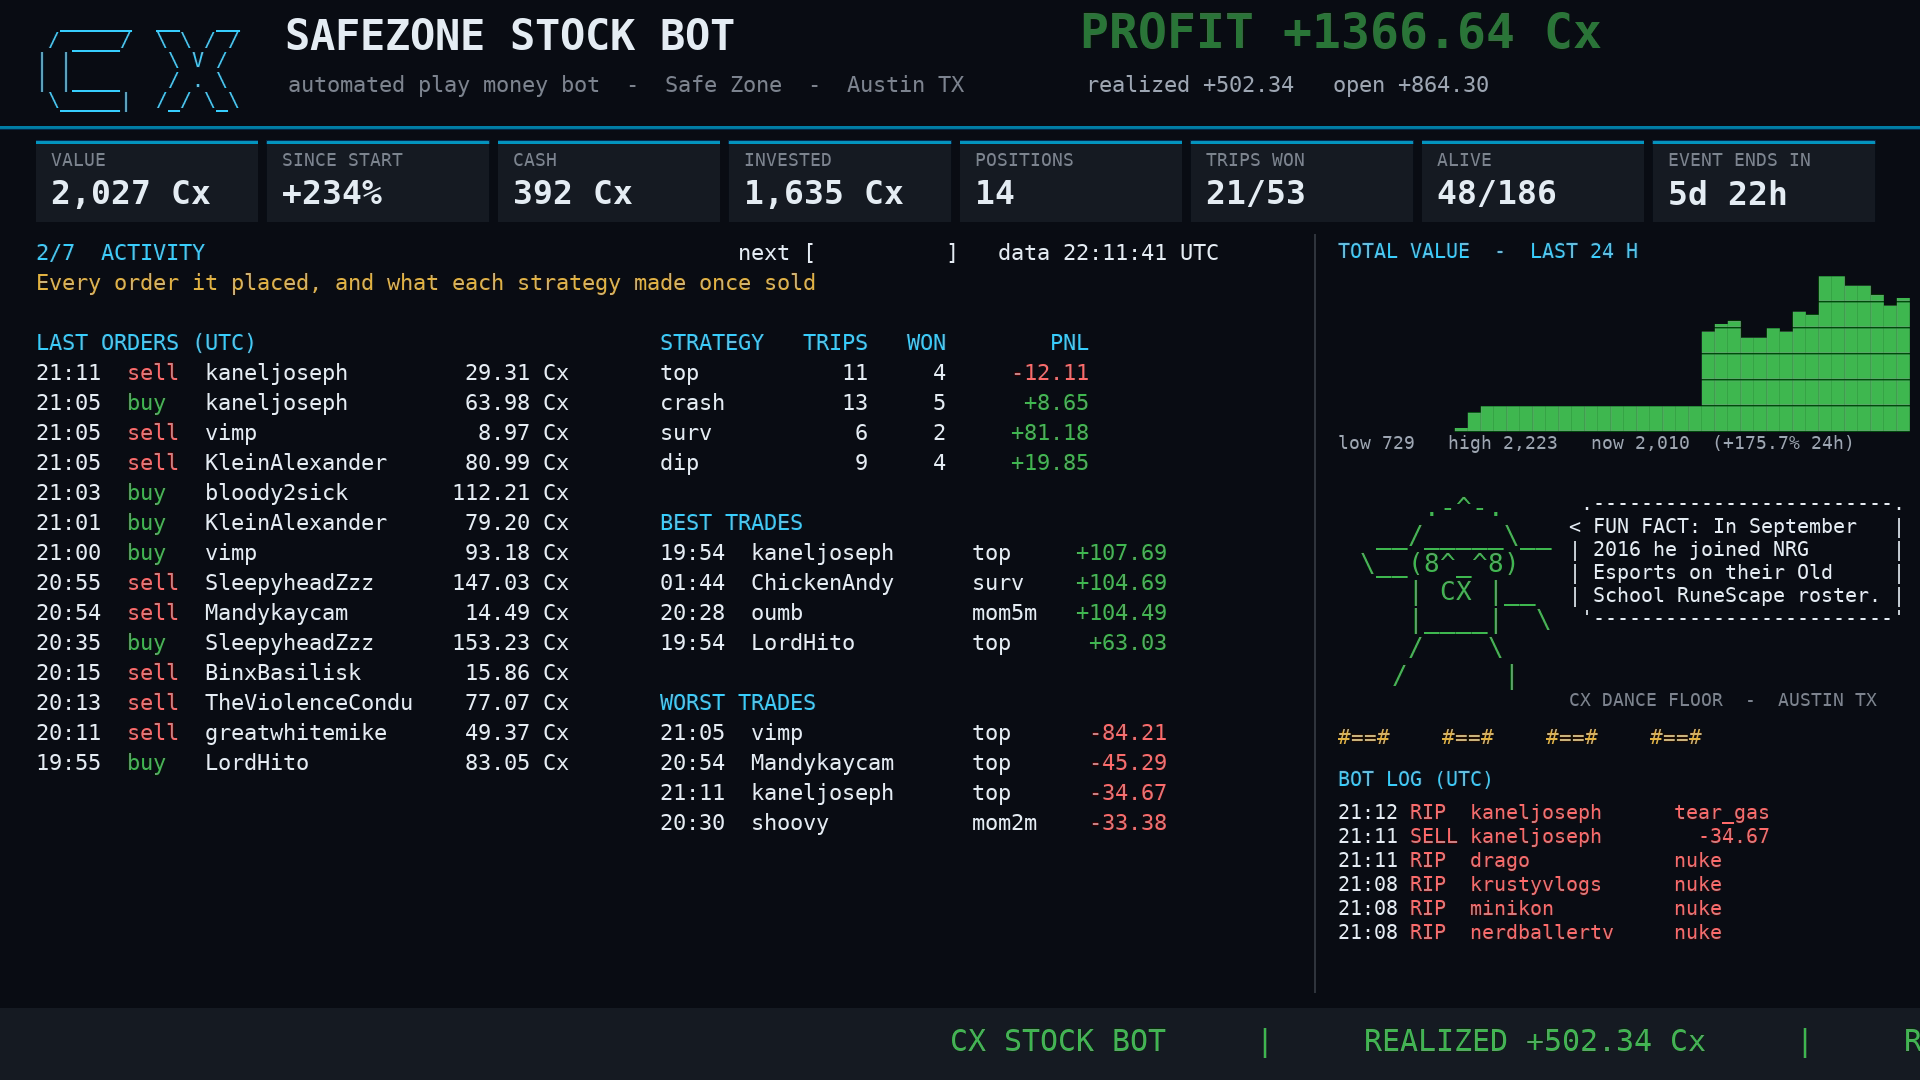
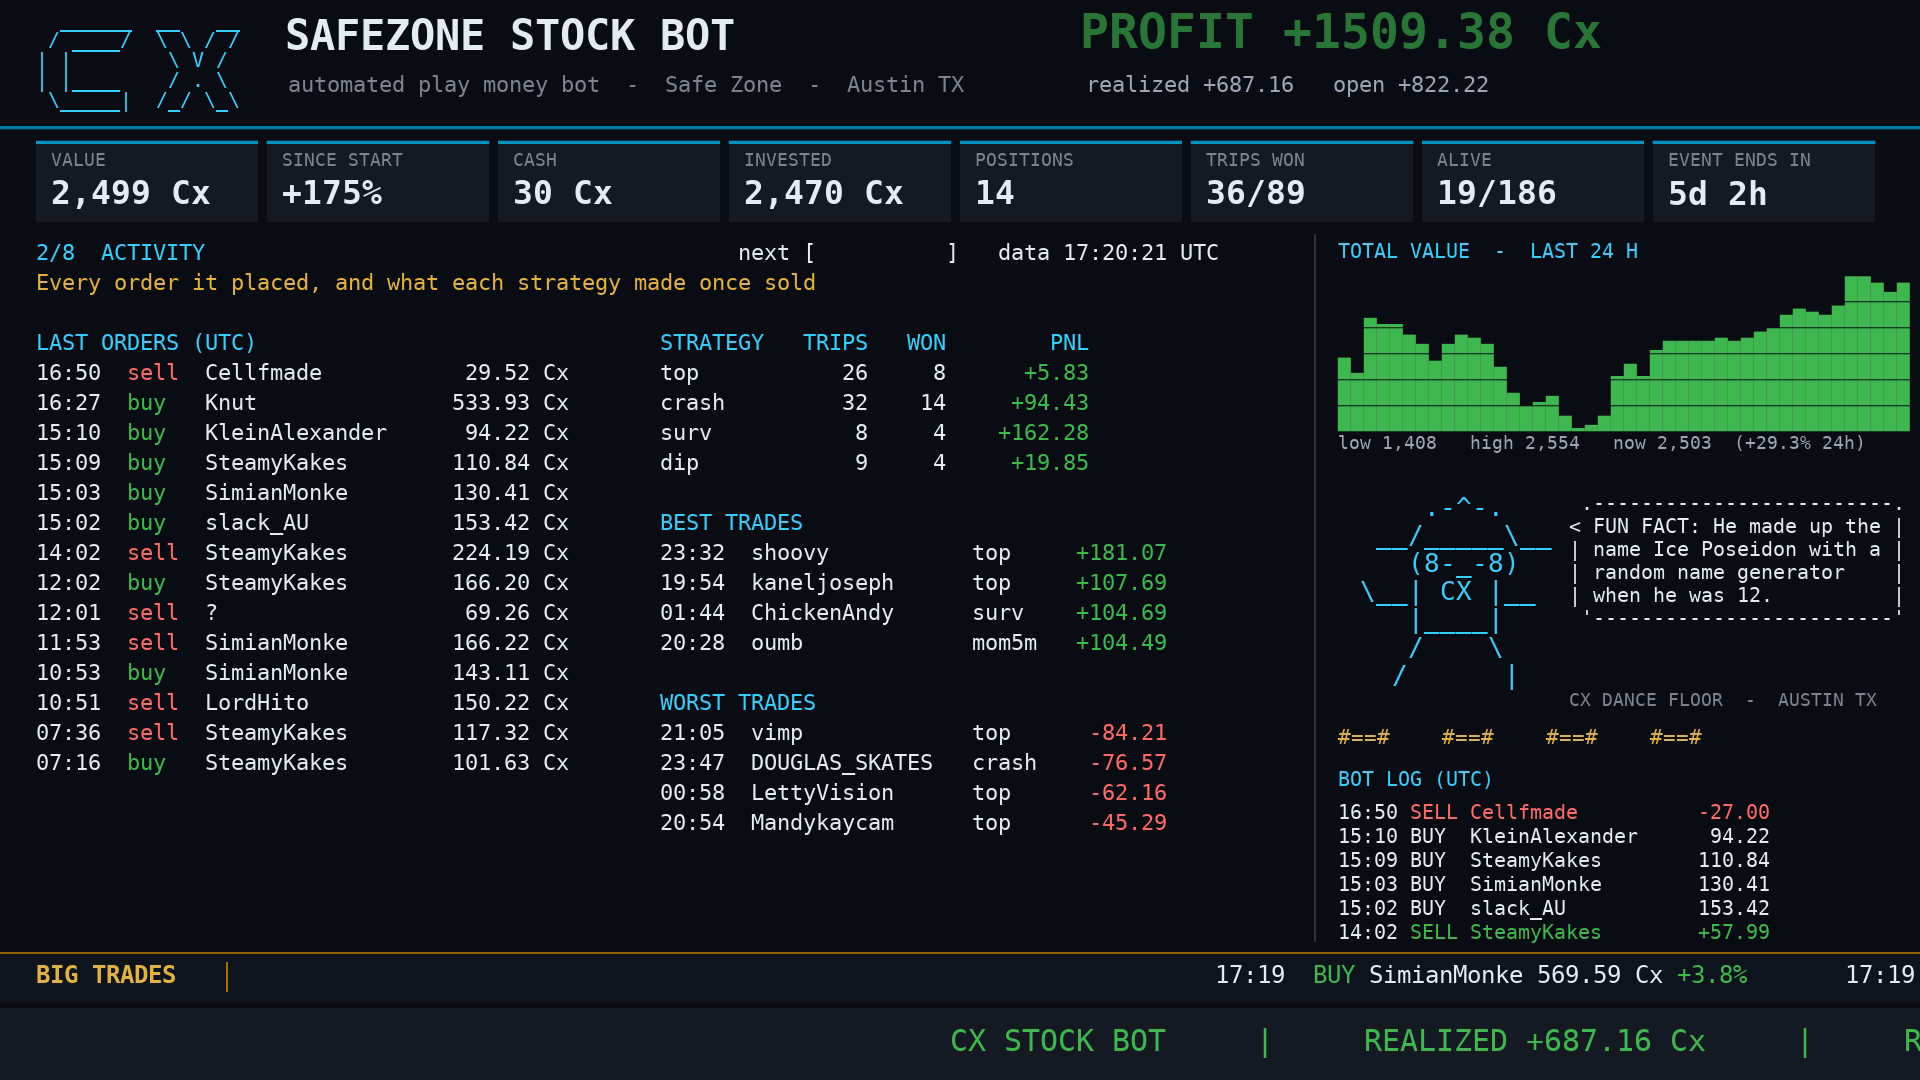
Stream: two pages on the other players' trades and a scrolling big trades band; adopt shares bought by hand
OTHER PLAYERS: MONEY FLOW (10 and 60 min totals, the hour's 15 most traded stocks) and LAST 20 TRADES
(newest first, then the 4 biggest of the hour). The BIG TRADES band shows trades of 100 Cx or more on every
page. Shares bought by hand on the site now join the top basket (adopt event) instead of a separate trail.

diff --git a/README.md b/README.md
@@ -32,8 +32,8 @@ Positions every 2 s (exits at death or low HP within about 2 s of the map showin
   when the stock stops trading. Never bought under 40% HP, outside the zone or dead. A death counts until the
   roster shows the contestant alive again (at least 30 s after it): then it is buyable, and a new death counts again.
   Revives go to `data/revives.jsonl` and the `revive` event.
-- **Your own positions**: 15% trail from the peak and a dump exit (a single sell of -5% or more), never a timer. When
-  you hold the same stock as the engine, it only sells its own shares.
+- **Your own buys join the pool** (since 2026-10-19): shares bought by hand on the site are taken over as `top` basket
+  shares (`adopt` in the log) and follow the basket's exits; a sale by hand just leaves the engine fewer shares.
 - **Guard rails**: rebound and survivor orders capped at 1.5% of the pool reserve; at most 6 non-basket positions; a
   30 min cooldown (5 min for crash); each strategy switches itself off after 10 round trips with a negative total.
 - **Self-tuning**, at start and every 2 h, on the last 24 h of recorded tape: each strategy's settings are replayed
@@ -114,7 +114,9 @@ setup, 720p capped at 600 kb/s, SSIM 0.9971 vs 0.9885). Measured on a 1 GB VPS: 
   a fun fact every 20 s (38 of them in `FUN_FACTS`, `backtest.mjs`: Ice Poseidon's career, the Cx community, Safe Zone
   rules, this market, the mascot; taken from Wikipedia, iceposeidon.com and KXAN on 18/10) or a line for its mood;
   the bot log (its orders, deaths, revives and refused pumps, newest first).
-- **Bottom**: a scrolling ticker (PnL, 5-min movers, last orders, alive count).
+- **Bottom**: a scrolling band of the other players' big trades on every page (`BIG TRADES`: 100 Cx or more in the
+  last hour, newest first, time, BUY in green or SELL in red, stock, Cx, price move), then a scrolling ticker (PnL,
+  5-min movers, last orders, alive count).
 
 1. Server (ffmpeg + DejaVu fonts): copy `stream/run.sh` to `~/szdash/`, put the ingest URL and stream key in
    `~/szdash/url` (`chmod 600`), run `nohup sh ~/szdash/run.sh >/dev/null 2>&1 &` and add it as a crontab `@reboot`.
@@ -122,14 +124,17 @@ setup, 720p capped at 600 kb/s, SSIM 0.9971 vs 0.9885). Measured on a 1 GB VPS: 
 
 | Page | Shows |
 |---|---|
-| 1 PORTFOLIO | every position: strategy (`top`, `dip` = crash rebound, `surv`, `yours` = opened by hand), cost, value, P/L in Cx and %, the contestant's HP, how long it has been held |
+| 1 PORTFOLIO | every position: strategy (`top`, `dip` = crash rebound, `surv`; a stock bought by hand is adopted as `top`), cost, value, P/L in Cx and %, the contestant's HP, how long it has been held |
 | 2 ACTIVITY | last 14 orders (buy / sell); per strategy: closed round trips, winners, PnL; the 4 best and 4 worst round trips |
 | 3 MARKET | 8 biggest 5-min rises and falls, share of the market rising, the 18 most expensive stocks |
 | 4 TOP BASKET TRACKER | the basket's ranking on calm price (calm, now, 5-min change, HELD or NEXT to buy) and the pumps it refused (price over 1.5x its calm price, `pump_skip` in the log) |
 | 5 CONTESTANTS | contestants in danger (under 35% HP or outside the zone) and the 18 last deaths (with what killed them) and revives, newest first |
-| 6 and on, STATUS | every alive contestant, weakest first, 34 per page: HP bar, HP, sigil, and the S P D O L R flags below |
+| 6 OTHER PLAYERS: MONEY FLOW | everyone else's trades over the last 10 and 60 min (trades, traders, bought, sold, net with BUYERS or SELLERS LEAD, biggest trade) and the hour's 15 most traded stocks (trades, bought, sold, net; `*` when the bot holds it) |
+| 7 OTHER PLAYERS: LAST 20 TRADES | their last 20 trades newest first (age, stock, side, Cx, price move of the trade, BIG from 100 Cx, `*` when the bot holds it), then the 4 biggest trades of the hour with their price before and after |
+| 8 and on, STATUS | every alive contestant, weakest first, 34 per page: HP bar, HP, sigil, and the S P D O L R flags below |
 
-The seven pages on 18/10 around 22:12 UTC, 1920x1080 (48 alive, two STATUS pages, the mascot telling fun facts):
+The eight pages on 19/10 around 17:20 UTC, 1920x1080 (19 alive, one STATUS page). The other players' pages come from the
+tape, recorded every minute, without this account's own trades:
 
 ![Stream page 1, portfolio](docs/screenshots/stream-page-1.png)
 
@@ -141,9 +146,11 @@ The seven pages on 18/10 around 22:12 UTC, 1920x1080 (48 alive, two STATUS pages
 
 ![Stream page 5, contestants](docs/screenshots/stream-page-5.png)
 
-![Stream page 6, status 1/2](docs/screenshots/stream-page-6.png)
+![Stream page 6, other players: money flow](docs/screenshots/stream-page-6.png)
 
-![Stream page 7, status 2/2](docs/screenshots/stream-page-7.png)
+![Stream page 7, other players: last 20 trades](docs/screenshots/stream-page-7.png)
+
+![Stream page 8, status](docs/screenshots/stream-page-8.png)
 
 `ssh <host> sh -s < stream/snap.sh && scp '<host>:/tmp/szsnap/*.png' docs/screenshots/` retakes them: on the server,
 it waits for each page, freezes its text files and has ffmpeg draw one frame with `run.sh`'s own filters, so a
@@ -338,11 +345,11 @@ hides stock ids and the site host, and stops if any of them is still on the page
 
 `node status.mjs` prints deaths, breadth, trades and PnL per strategy from local files. `trades.jsonl` is the event
 log: `start`, `restart`, `watchdog`, `stock-market/buy|sell` (with `why`), `kick_say`, `auth_lost` (log in again),
-`blocked`, `revive`, `pump_skip`, `cash_in` / `cash_out` (the Cx Bucks balance moved without an order, e.g. chat earnings: summed in `state.json` as deposits and left out of the gain since the start), `manual_trade` (a trade made by hand on the site: its cash is taken back out of the deposits, so it is neither a deposit nor a withdrawal), `<strategy>_off` / `_on`, `tune_crash|surv|top`, `params_reload`, `stream_err`, `save_err`, `dashboard_err`. Telegram (optional):
+`blocked`, `revive`, `adopt` (shares bought by hand taken over by the engine), `pump_skip`, `cash_in` / `cash_out` (the Cx Bucks balance moved without an order, e.g. chat earnings: summed in `state.json` as deposits and left out of the gain since the start), `manual_trade` (a trade made by hand on the site: its cash is taken back out of the deposits, so it is neither a deposit nor a withdrawal), `<strategy>_off` / `_on`, `tune_crash|surv|top`, `params_reload`, `stream_err`, `save_err`, `dashboard_err`. Telegram (optional):
 lost session, long API block, strategy switched off or on, new params, daily PnL.
 
 `node check.mjs` must print `check ok` after any change: replays, tuners, kill-switch tally, watchdog, health
-decoder, revives (dead until revived, dead again after a new death), the top basket's pump filter and fill (smallest position first, cash reserve kept), the balance a restart starts from (a deposit never counted twice), trades made by hand kept out of the deposits, chat and stream text (every alive contestant on a STATUS page; basket tracker, value chart, mascot mood, speech bubble, every fun fact shown whole, bot log), cookie sorter, engine loop scheduling (no
+decoder, revives (dead until revived, dead again after a new death), the top basket's pump filter and fill (smallest position first, cash reserve kept), the balance a restart starts from (a deposit never counted twice), trades made by hand kept out of the deposits and their shares adopted, the two OTHER PLAYERS pages (10 and 60 min windows, by-stock totals, two columns of trades, the hour's biggest, BIG and held marks) and the big trades band (BUY green, SELL red, every color layer the same width), chat and stream text (every alive contestant on a STATUS page; basket tracker, value chart, mascot mood, speech bubble, every fun fact shown whole, bot log), cookie sorter, engine loop scheduling (no
 periodic job hidden behind a comment), each with a control case that must fail.
 
 ## Safety rules
